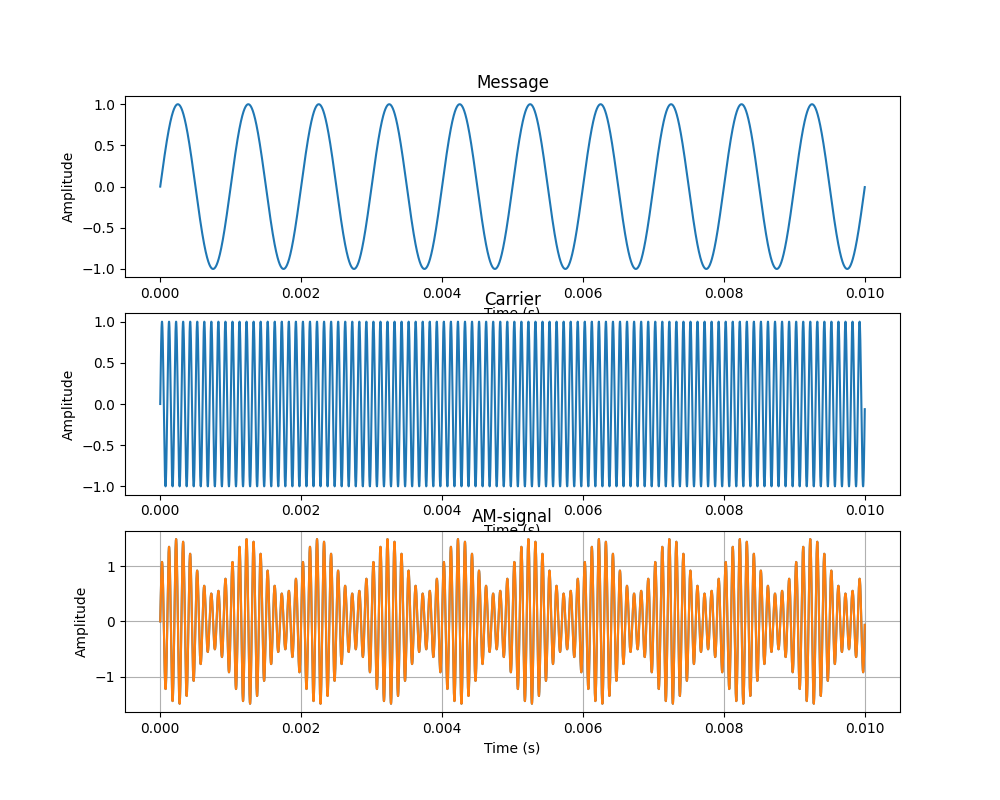
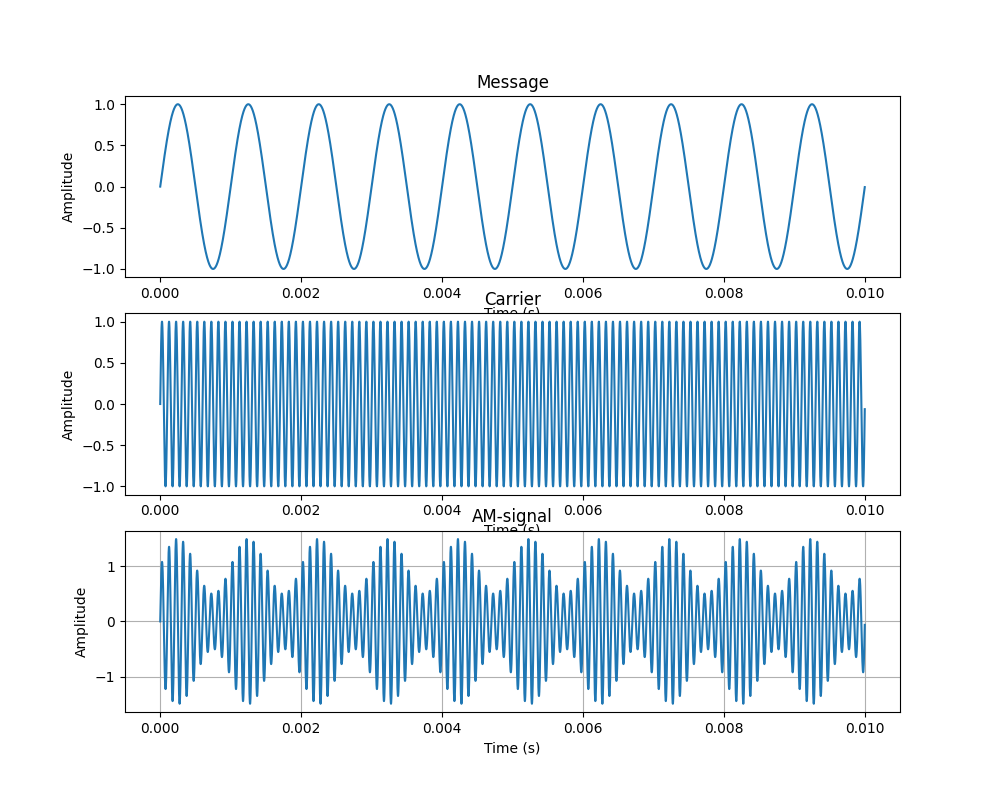
Add fft spectrum analysis

Changed region(s): [[0.155, 0.6562, 0.868, 0.875]]

diff --git a/src/main.py b/src/main.py
@@ -34,7 +34,9 @@ plt.xlabel("Time (s)")
 plt.ylabel("Amplitude")
 plt.title("Carrier")
 
-#Plot modulated signal
+
+
+
 plt.subplot(3, 1, 3)
 plt.plot(t, am_signal)
 plt.xlabel("Time (s)")
@@ -42,4 +44,17 @@ plt.ylabel("Amplitude")
 plt.title("AM-signal")
 plt.grid()
 plt.savefig("results/am_signals.png")
+plt.show()
+
+frequencies = np.fft.fftfreq(len(am_signal), 1/sampling_rate)
+fft = np.fft.fft(am_signal)
+magnitude = np.abs(fft)/len(am_signal)
+
+plt.xlim(0, 20000)
+plt.plot(frequencies, magnitude)
+plt.xlabel("Frequency (Hz)")
+plt.ylabel("Magnitude")
+plt.title("AM Signal spectrum")
+plt.grid()
+plt.savefig("results/am_signals_fft.png")
 plt.show()
